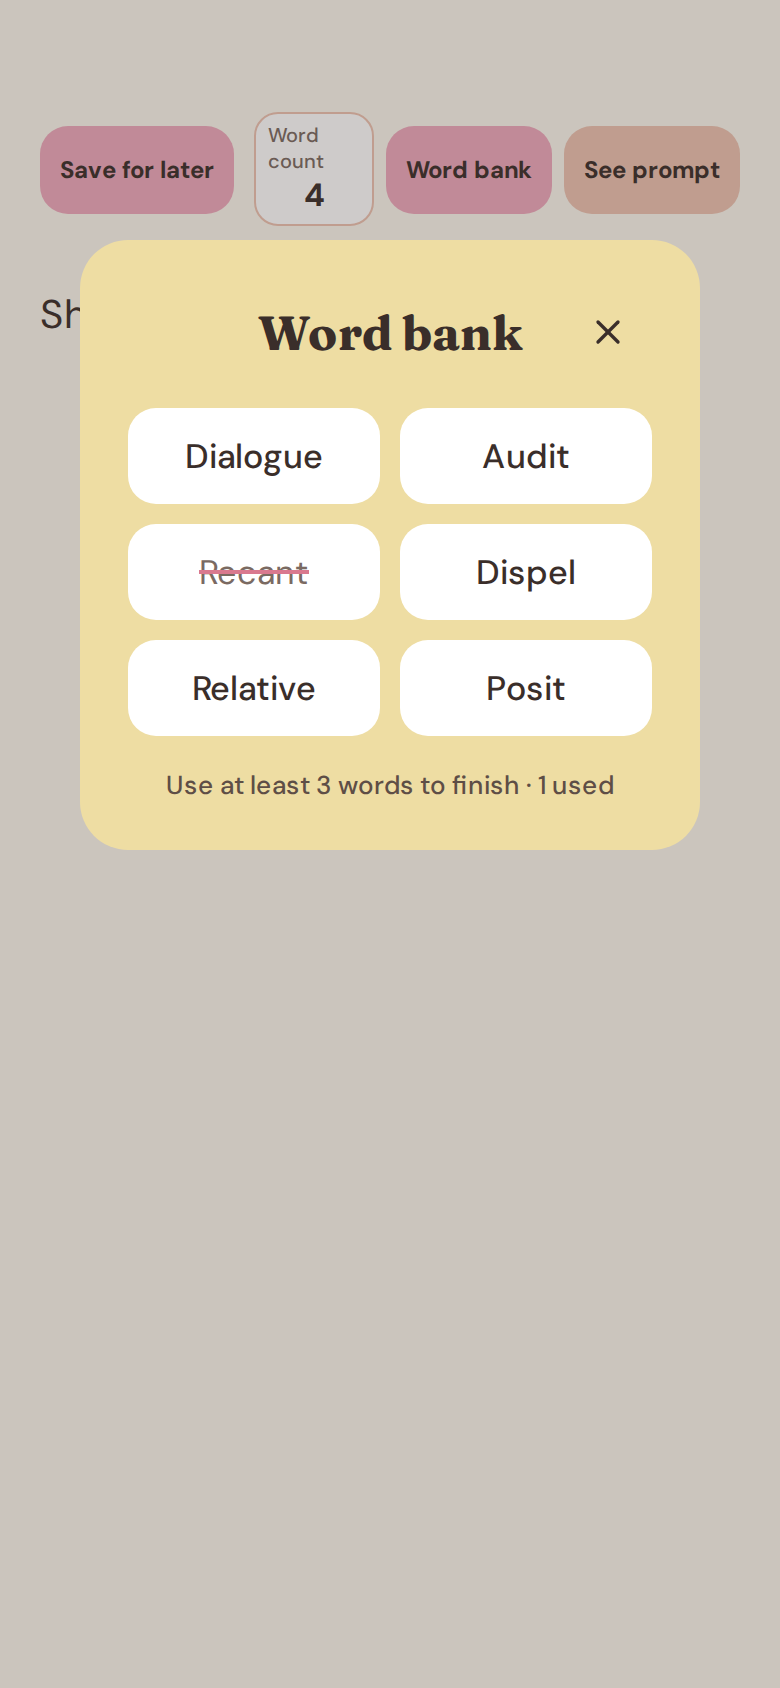
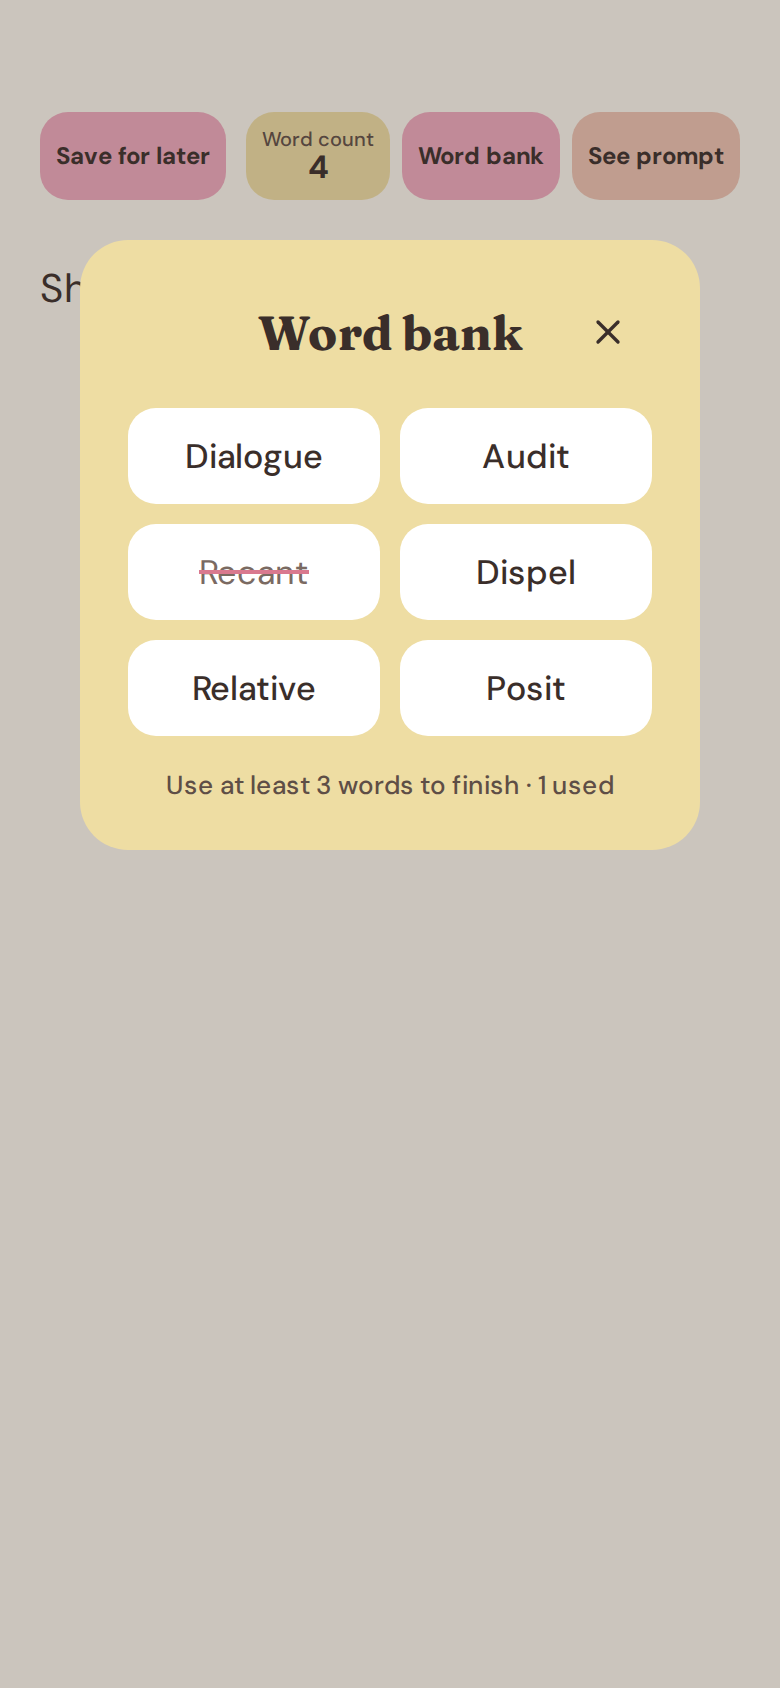
Center the word count box and make it yellow, fix the fi in headings

Changed region(s): [[0.0615, 0.0616, 0.9538, 0.154], [0.0308, 0.154, 0.0923, 0.2156]]

diff --git a/screens/write.html b/screens/write.html
@@ -8,20 +8,21 @@
 <style>
 body{margin:0;font-family:'DM Sans',sans-serif;background:#FBF7EE;color:#3A2E2A}
 a{color:#3A2E2A}a:hover{color:#000}
+*{font-variant-ligatures:no-common-ligatures}
 </style>
 </head>
 <body style="display:flex;justify-content:center">
 <div style="width: 390px; height: 844px; box-sizing: border-box; background: #FBF7EE; padding: 56px 20px 32px; display: flex; flex-direction: column; gap: 28px; font-family: 'DM Sans', sans-serif; color: #3A2E2A">
 
 <div style="display: flex; justify-content: space-between; align-items: center">
-<a href="home.html" style="height: 44px; padding: 0 10px; display: flex; align-items: center; border-radius: 14px; background: #eea9bc; font-size: 12px; font-weight: 700; text-decoration: none">Save for later</a>
+<a href="home.html" style="height: 44px; padding: 0 8px; display: flex; align-items: center; border-radius: 14px; background: #eea9bc; font-size: 12px; font-weight: 700; text-decoration: none">Save for later</a>
 <div style="display: flex; gap: 6px; align-items: center">
-<div style="width: 60px; min-height: 44px; box-sizing: border-box; padding: 4px 6px; border: 1.5px solid #ecc2b0; border-radius: 12px; background: #ffffff; display: flex; flex-direction: column; align-items: center; justify-content: center">
-<span style="font-size: 10px; font-weight: 500; color: #7A6A62">Word count</span>
+<div style="height: 44px; box-sizing: border-box; padding: 0 8px; border-radius: 14px; background: #eedda3; display: flex; flex-direction: column; align-items: center; justify-content: center; text-align: center; line-height: 1.1; white-space: nowrap">
+<span style="font-size: 10px; font-weight: 500; color: #5E4E46">Word count</span>
 <span style="font-size: 16px; font-weight: 700">4</span>
 </div>
-<a href="write-word-bank-open.html" style="height: 44px; padding: 0 10px; display: flex; align-items: center; border-radius: 14px; background: #eea9bc; font-size: 12px; font-weight: 700; text-decoration: none">Word bank</a>
-<button style="height: 44px; padding: 0 10px; border: none; border-radius: 14px; background: #ecc2b0; font-family: inherit; font-size: 12px; font-weight: 700; color: #3A2E2A">See prompt</button>
+<a href="write-word-bank-open.html" style="height: 44px; padding: 0 8px; display: flex; align-items: center; border-radius: 14px; background: #eea9bc; font-size: 12px; font-weight: 700; text-decoration: none">Word bank</a>
+<button style="height: 44px; padding: 0 8px; border: none; border-radius: 14px; background: #ecc2b0; font-family: inherit; font-size: 12px; font-weight: 700; color: #3A2E2A">See prompt</button>
 </div>
 </div>
 

diff --git a/screens/write-word-bank-open.html b/screens/write-word-bank-open.html
@@ -8,20 +8,21 @@
 <style>
 body{margin:0;font-family:'DM Sans',sans-serif;background:#FBF7EE;color:#3A2E2A}
 a{color:#3A2E2A}a:hover{color:#000}
+*{font-variant-ligatures:no-common-ligatures}
 </style>
 </head>
 <body style="display:flex;justify-content:center">
 <div style="position: relative; width: 390px; height: 844px; box-sizing: border-box; background: #FBF7EE; padding: 56px 20px 32px; display: flex; flex-direction: column; gap: 28px; font-family: 'DM Sans', sans-serif; color: #3A2E2A">
 
 <div style="display: flex; justify-content: space-between; align-items: center">
-<span style="height: 44px; padding: 0 10px; display: flex; align-items: center; border-radius: 14px; background: #eea9bc; font-size: 12px; font-weight: 700">Save for later</span>
+<span style="height: 44px; padding: 0 8px; display: flex; align-items: center; border-radius: 14px; background: #eea9bc; font-size: 12px; font-weight: 700">Save for later</span>
 <div style="display: flex; gap: 6px; align-items: center">
-<div style="width: 60px; min-height: 44px; box-sizing: border-box; padding: 4px 6px; border: 1.5px solid #ecc2b0; border-radius: 12px; background: #ffffff; display: flex; flex-direction: column; align-items: center; justify-content: center">
-<span style="font-size: 10px; font-weight: 500; color: #7A6A62">Word count</span>
+<div style="height: 44px; box-sizing: border-box; padding: 0 8px; border-radius: 14px; background: #eedda3; display: flex; flex-direction: column; align-items: center; justify-content: center; text-align: center; line-height: 1.1; white-space: nowrap">
+<span style="font-size: 10px; font-weight: 500; color: #5E4E46">Word count</span>
 <span style="font-size: 16px; font-weight: 700">4</span>
 </div>
-<span style="height: 44px; padding: 0 10px; display: flex; align-items: center; border-radius: 14px; background: #eea9bc; font-size: 12px; font-weight: 700">Word bank</span>
-<span style="height: 44px; padding: 0 10px; display: flex; align-items: center; border-radius: 14px; background: #ecc2b0; font-size: 12px; font-weight: 700">See prompt</span>
+<span style="height: 44px; padding: 0 8px; display: flex; align-items: center; border-radius: 14px; background: #eea9bc; font-size: 12px; font-weight: 700">Word bank</span>
+<span style="height: 44px; padding: 0 8px; display: flex; align-items: center; border-radius: 14px; background: #ecc2b0; font-size: 12px; font-weight: 700">See prompt</span>
 </div>
 </div>
 

diff --git a/index.html b/index.html
@@ -8,6 +8,7 @@
 <style>
   body { margin: 0; background: #F3EBDD; color: #3A2E2A; font-family: 'DM Sans', sans-serif; }
   header { padding: 40px 24px 8px; max-width: 1200px; margin: 0 auto; }
+  * { font-variant-ligatures: no-common-ligatures; }
   h1 { font-family: Fraunces, serif; font-size: 36px; margin: 0 0 8px; }
   p { margin: 0; color: #6B5A52; }
   h2 { font-size: 15px; letter-spacing: .08em; text-transform: uppercase; color: #6B5A52; margin: 32px 0 16px; }

diff --git a/screens/challenge-complete.html b/screens/challenge-complete.html
@@ -8,6 +8,7 @@
 <style>
 body{margin:0;font-family:'DM Sans',sans-serif;background:#FBF7EE;color:#3A2E2A}
 a{color:#3A2E2A}a:hover{color:#000}
+*{font-variant-ligatures:no-common-ligatures}
 </style>
 </head>
 <body style="display:flex;justify-content:center">

diff --git a/screens/home.html b/screens/home.html
@@ -8,6 +8,7 @@
 <style>
 body{margin:0;font-family:'DM Sans',sans-serif;background:#FBF7EE;color:#3A2E2A}
 a{color:#3A2E2A}a:hover{color:#000}
+*{font-variant-ligatures:no-common-ligatures}
 </style>
 </head>
 <body style="display:flex;justify-content:center">

diff --git a/screens/pick-a-challenge.html b/screens/pick-a-challenge.html
@@ -8,6 +8,7 @@
 <style>
 body{margin:0;font-family:'DM Sans',sans-serif;background:#FBF7EE;color:#3A2E2A}
 a{color:#3A2E2A}a:hover{color:#000}
+*{font-variant-ligatures:no-common-ligatures}
 </style>
 </head>
 <body style="display:flex;justify-content:center">

diff --git a/screens/onboarding-1-goal.html b/screens/onboarding-1-goal.html
@@ -8,6 +8,7 @@
 <style>
 body{margin:0;font-family:'DM Sans',sans-serif;background:#FBF7EE;color:#3A2E2A}
 a{color:#3A2E2A}a:hover{color:#000}
+*{font-variant-ligatures:no-common-ligatures}
 input::placeholder{color:#7A6A62}
 </style>
 </head>

diff --git a/screens/onboarding-2-topics.html b/screens/onboarding-2-topics.html
@@ -8,6 +8,7 @@
 <style>
 body{margin:0;font-family:'DM Sans',sans-serif;background:#FBF7EE;color:#3A2E2A}
 a{color:#3A2E2A}a:hover{color:#000}
+*{font-variant-ligatures:no-common-ligatures}
 input::placeholder{color:#7A6A62}
 </style>
 </head>

diff --git a/screens/onboarding-3-writing-help.html b/screens/onboarding-3-writing-help.html
@@ -8,6 +8,7 @@
 <style>
 body{margin:0;font-family:'DM Sans',sans-serif;background:#FBF7EE;color:#3A2E2A}
 a{color:#3A2E2A}a:hover{color:#000}
+*{font-variant-ligatures:no-common-ligatures}
 input::placeholder{color:#7A6A62}
 </style>
 </head>
